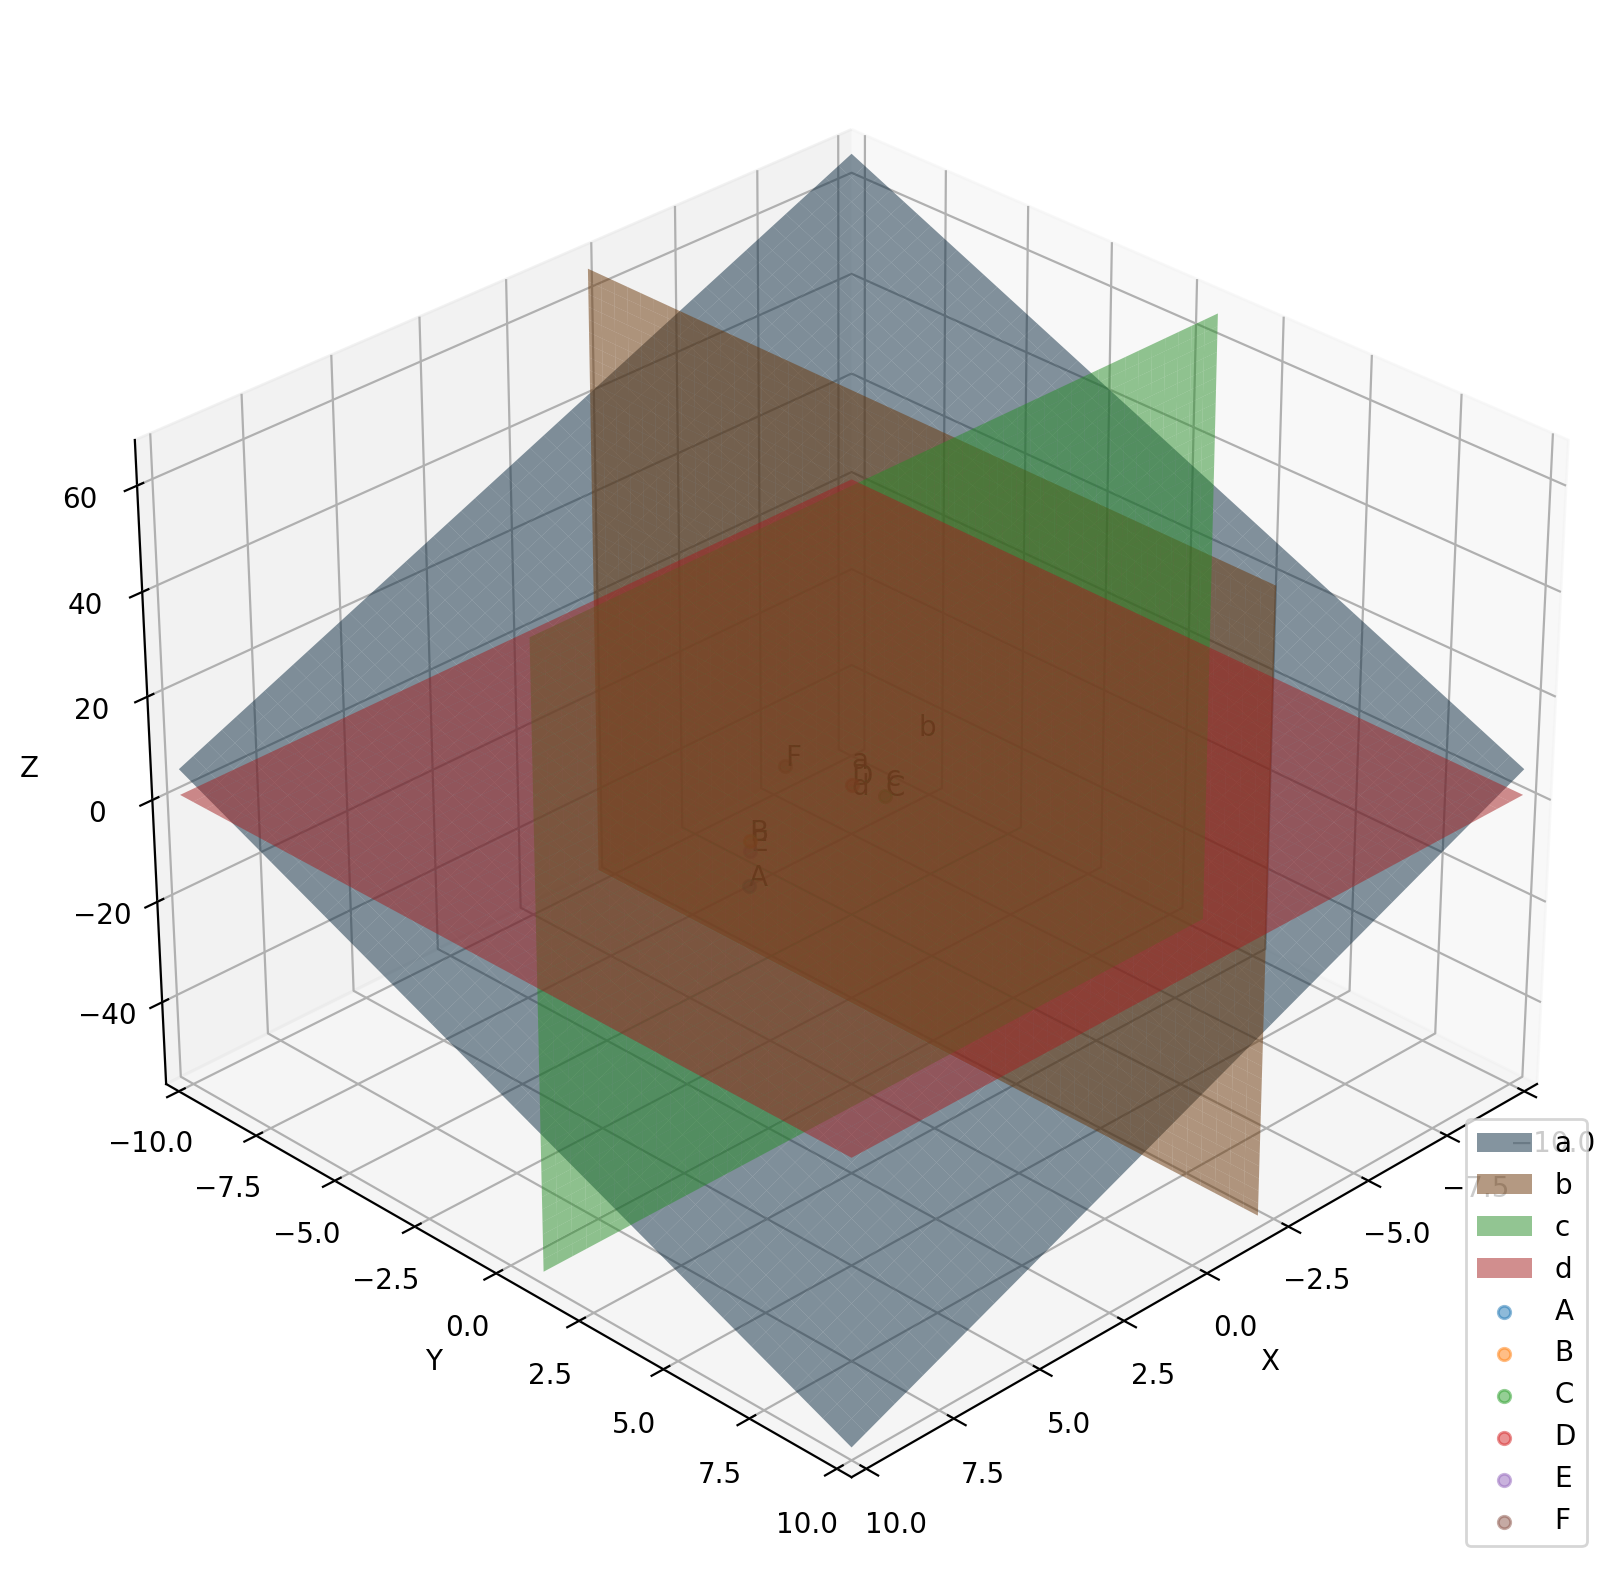
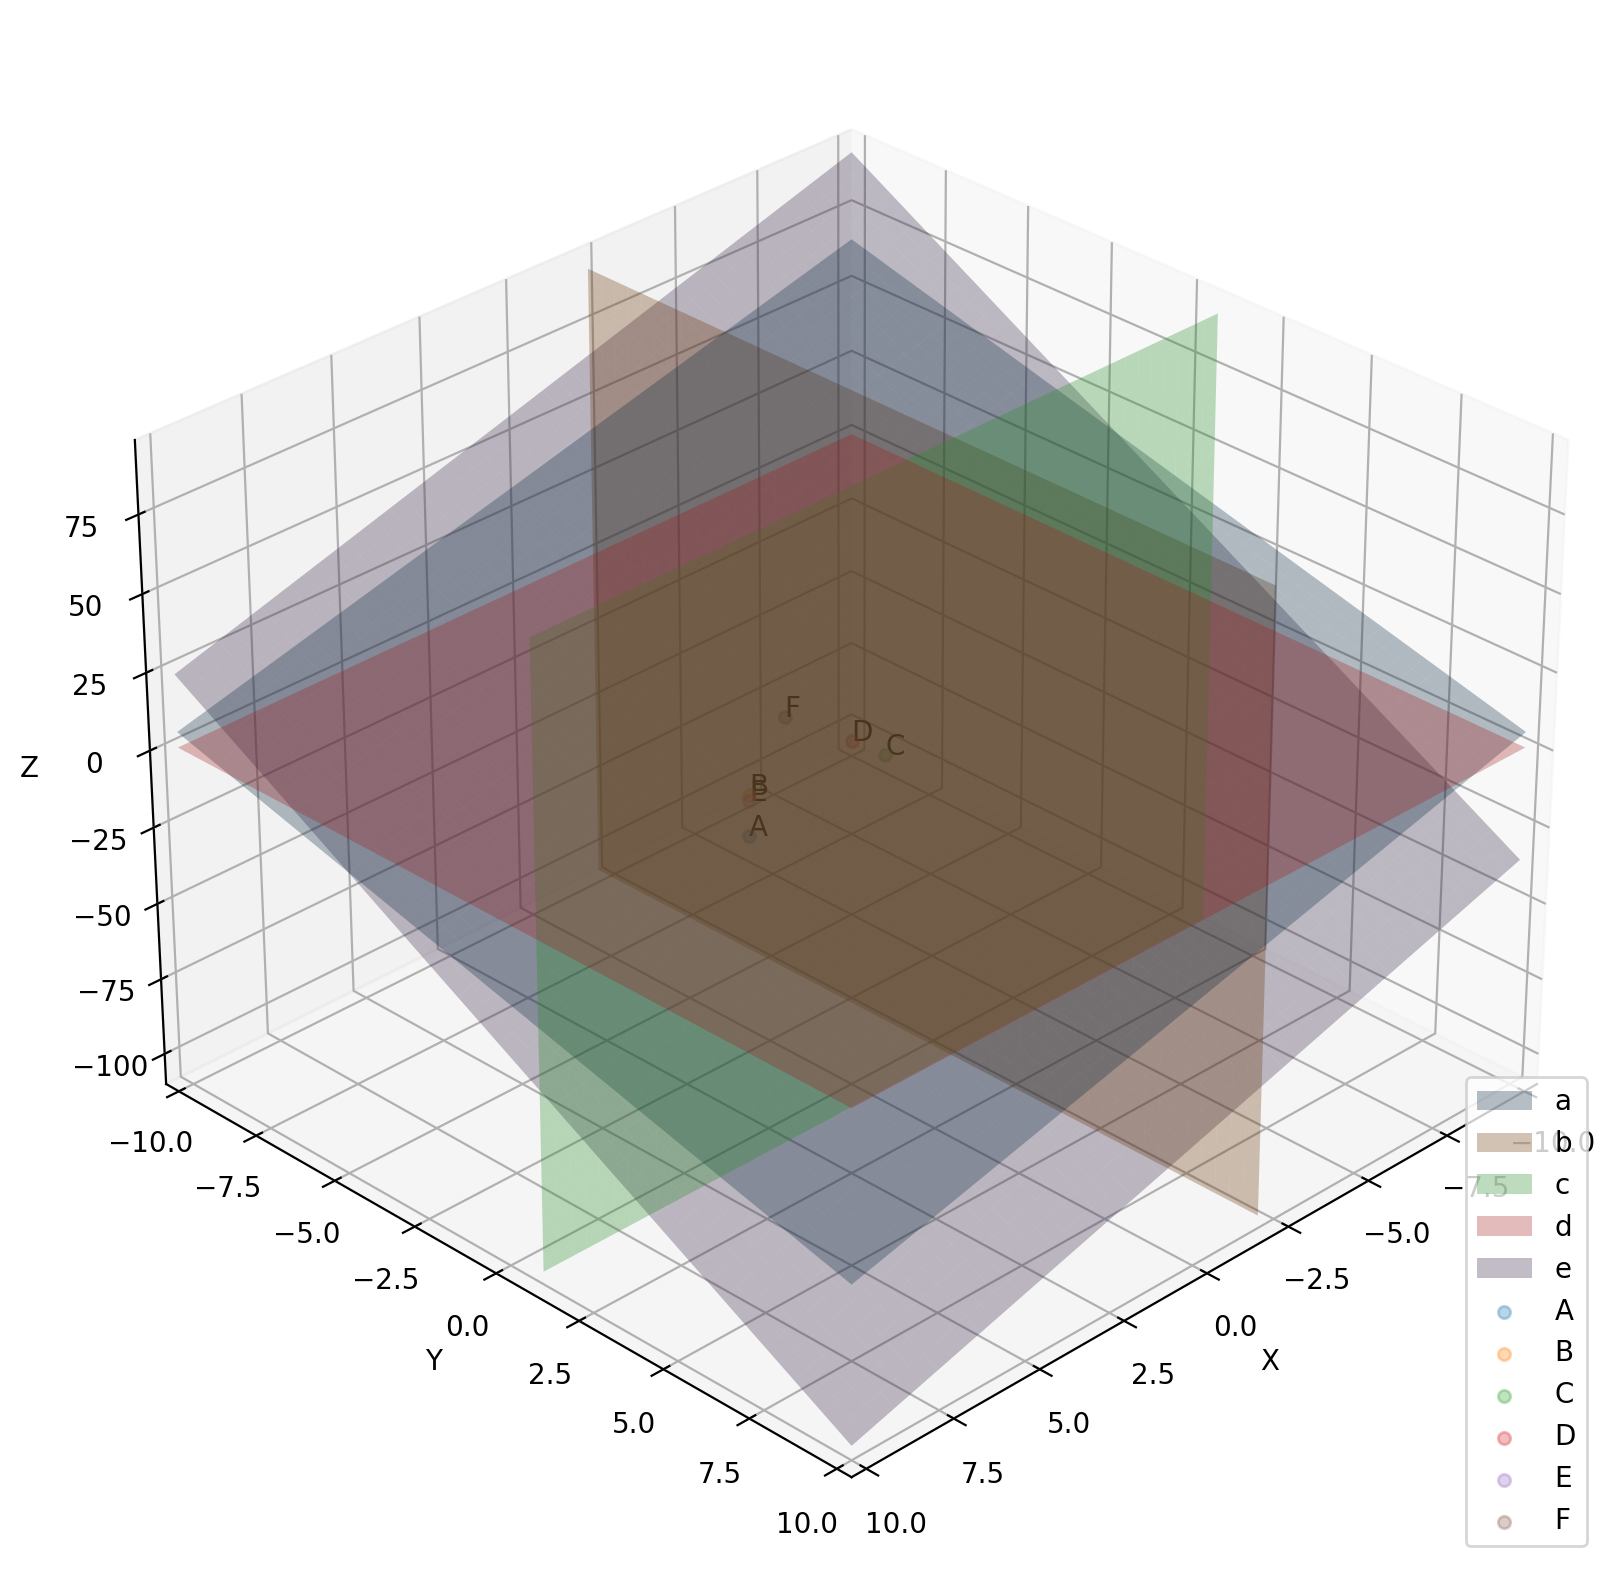
Changed Alpha and removed Plane Text

diff --git a/dataplotting/simple_data_plotting_lib.py b/dataplotting/simple_data_plotting_lib.py
@@ -119,15 +119,14 @@ class Plot3D:
 
     # plotting a point in the 3D space
     def add3Dpoint(self, label, x, y, z):
-        self.ax.scatter(x, y, z, marker='o', label=label, alpha=0.5)
+        self.ax.scatter(x, y, z, marker='o', label=label, alpha=0.3)
         self.ax.text(x, y, z, label)
 
     # plotting a plane in the 3D space
     def add3Dplane(self, label, x, y, z):
-        tmp = self.ax.plot_surface(x, y, z, label=label, alpha=0.5)
+        tmp = self.ax.plot_surface(x, y, z, label=label, alpha=0.3)
         tmp._facecolors2d = tmp._facecolor3d
         tmp._edgecolors2d = tmp._edgecolor3d
-        self.ax.text(np.average(x), np.average(y), np.average(z), label)
 
     def show_legend(self):
         self.ax.legend(loc="lower right")
